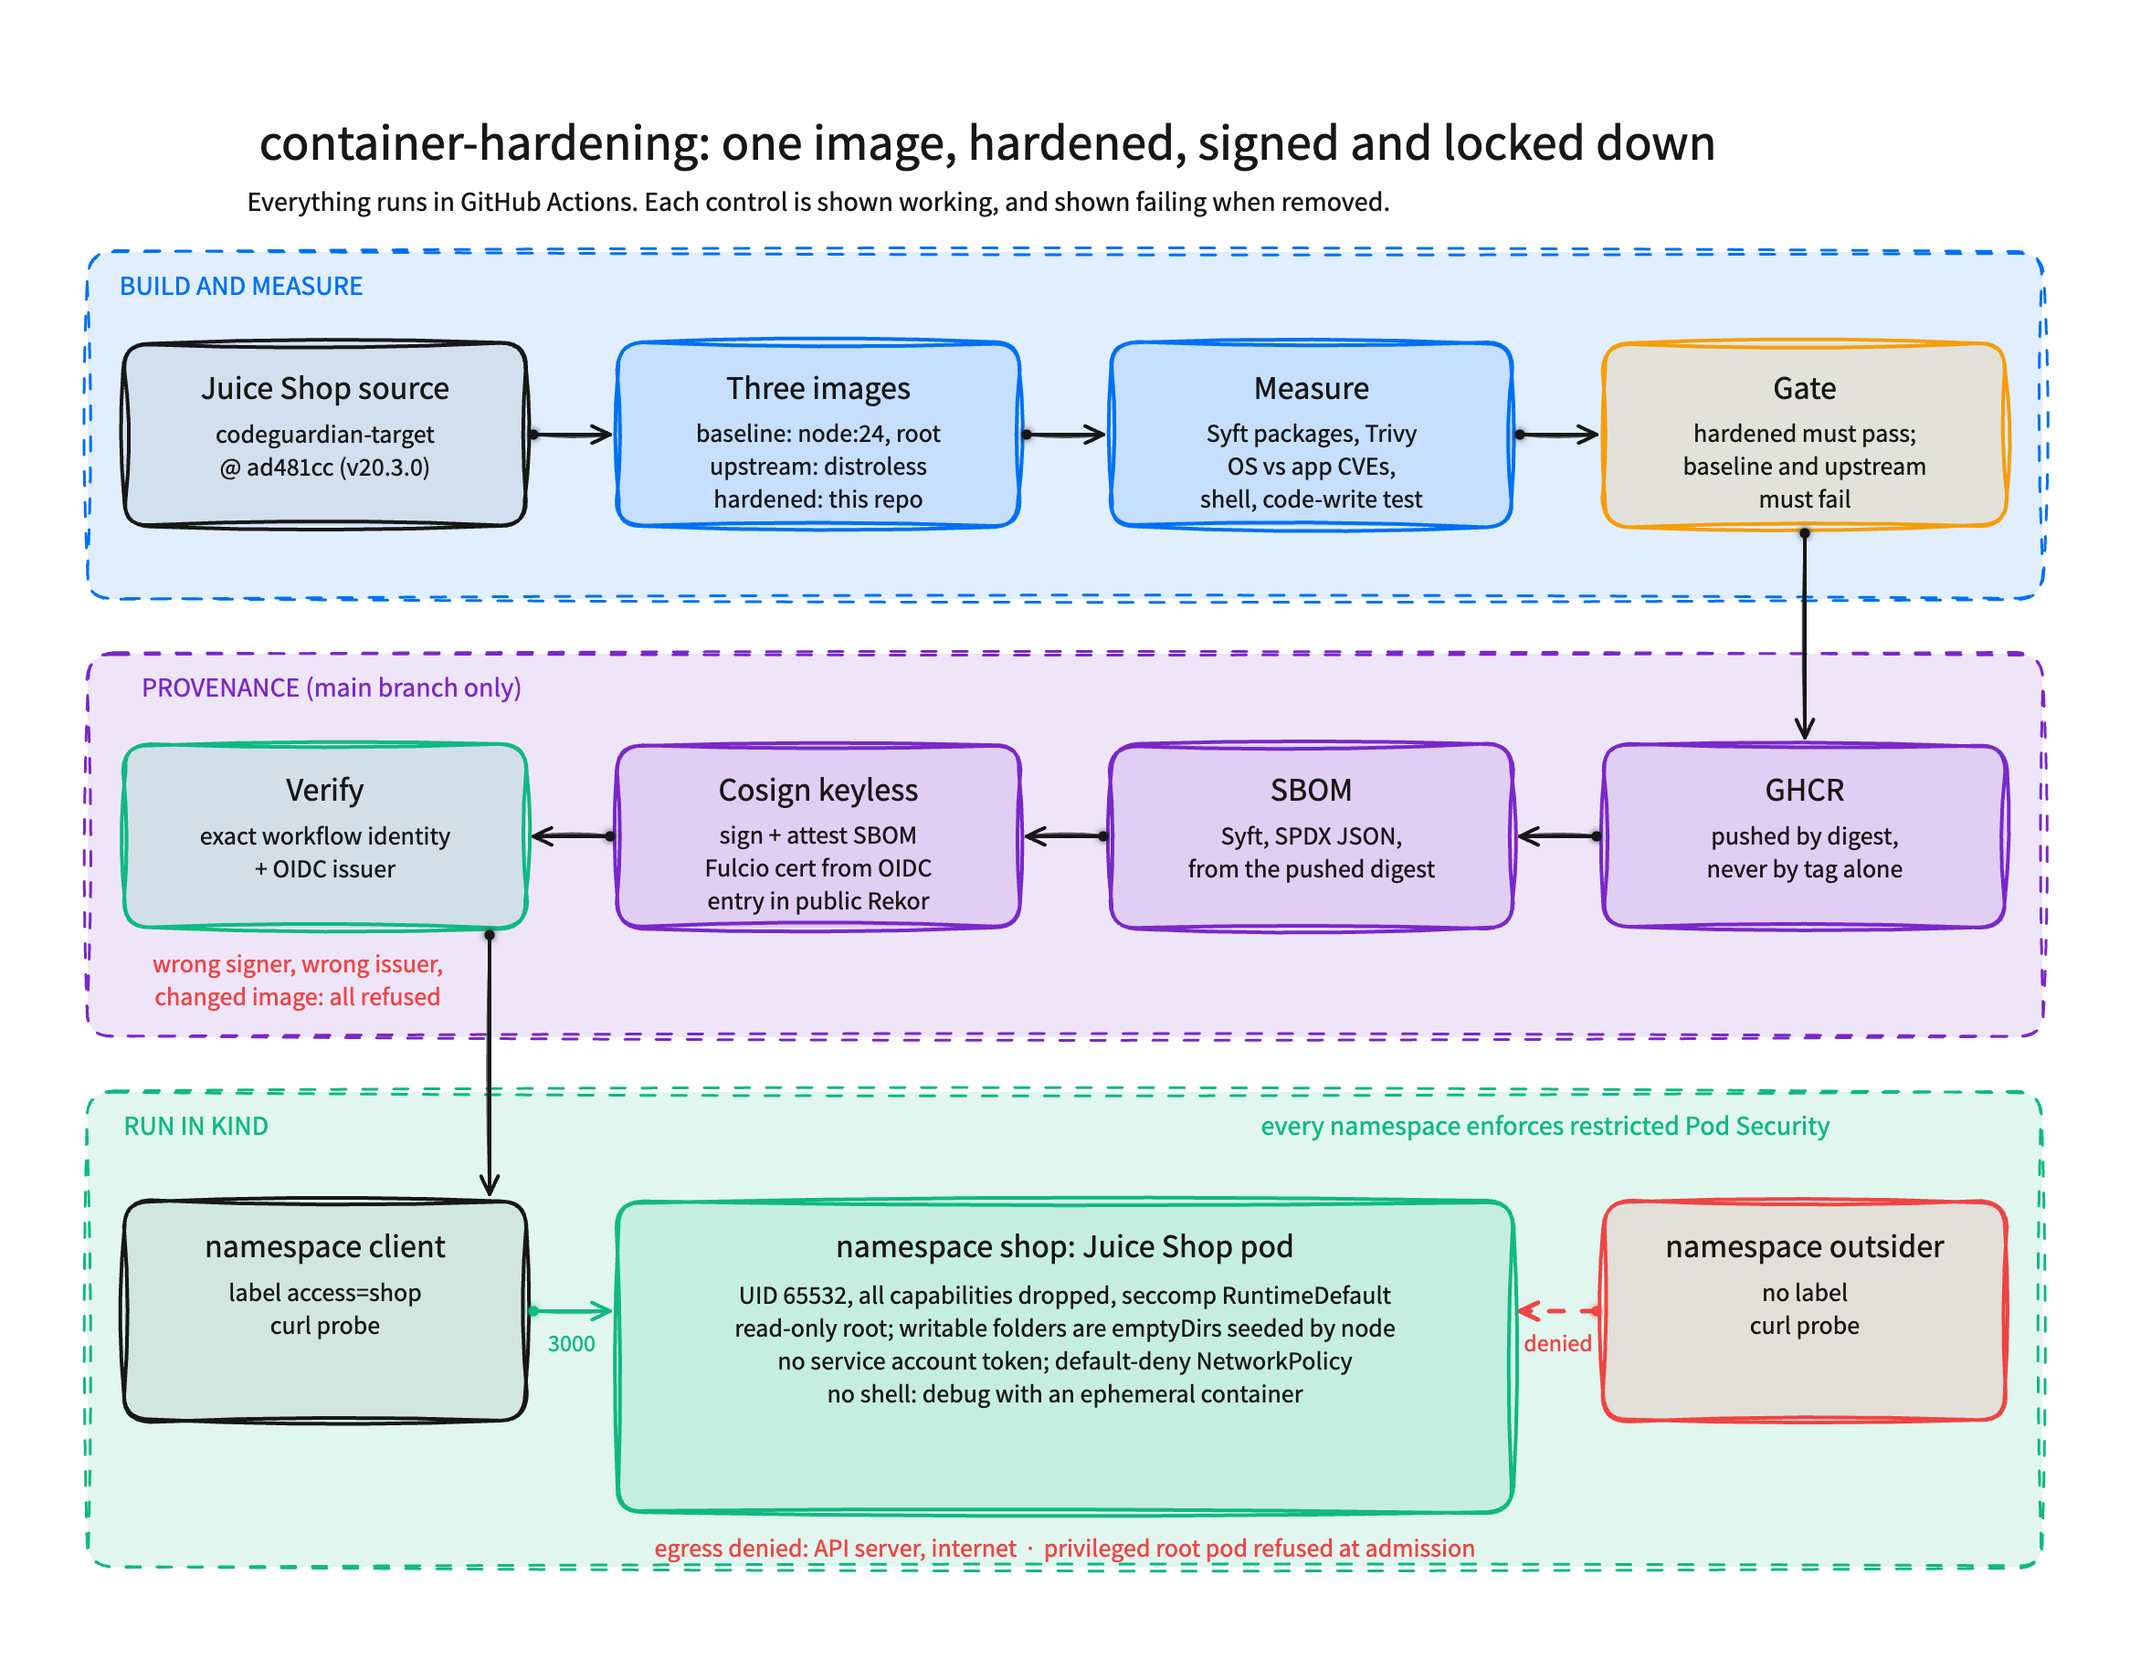
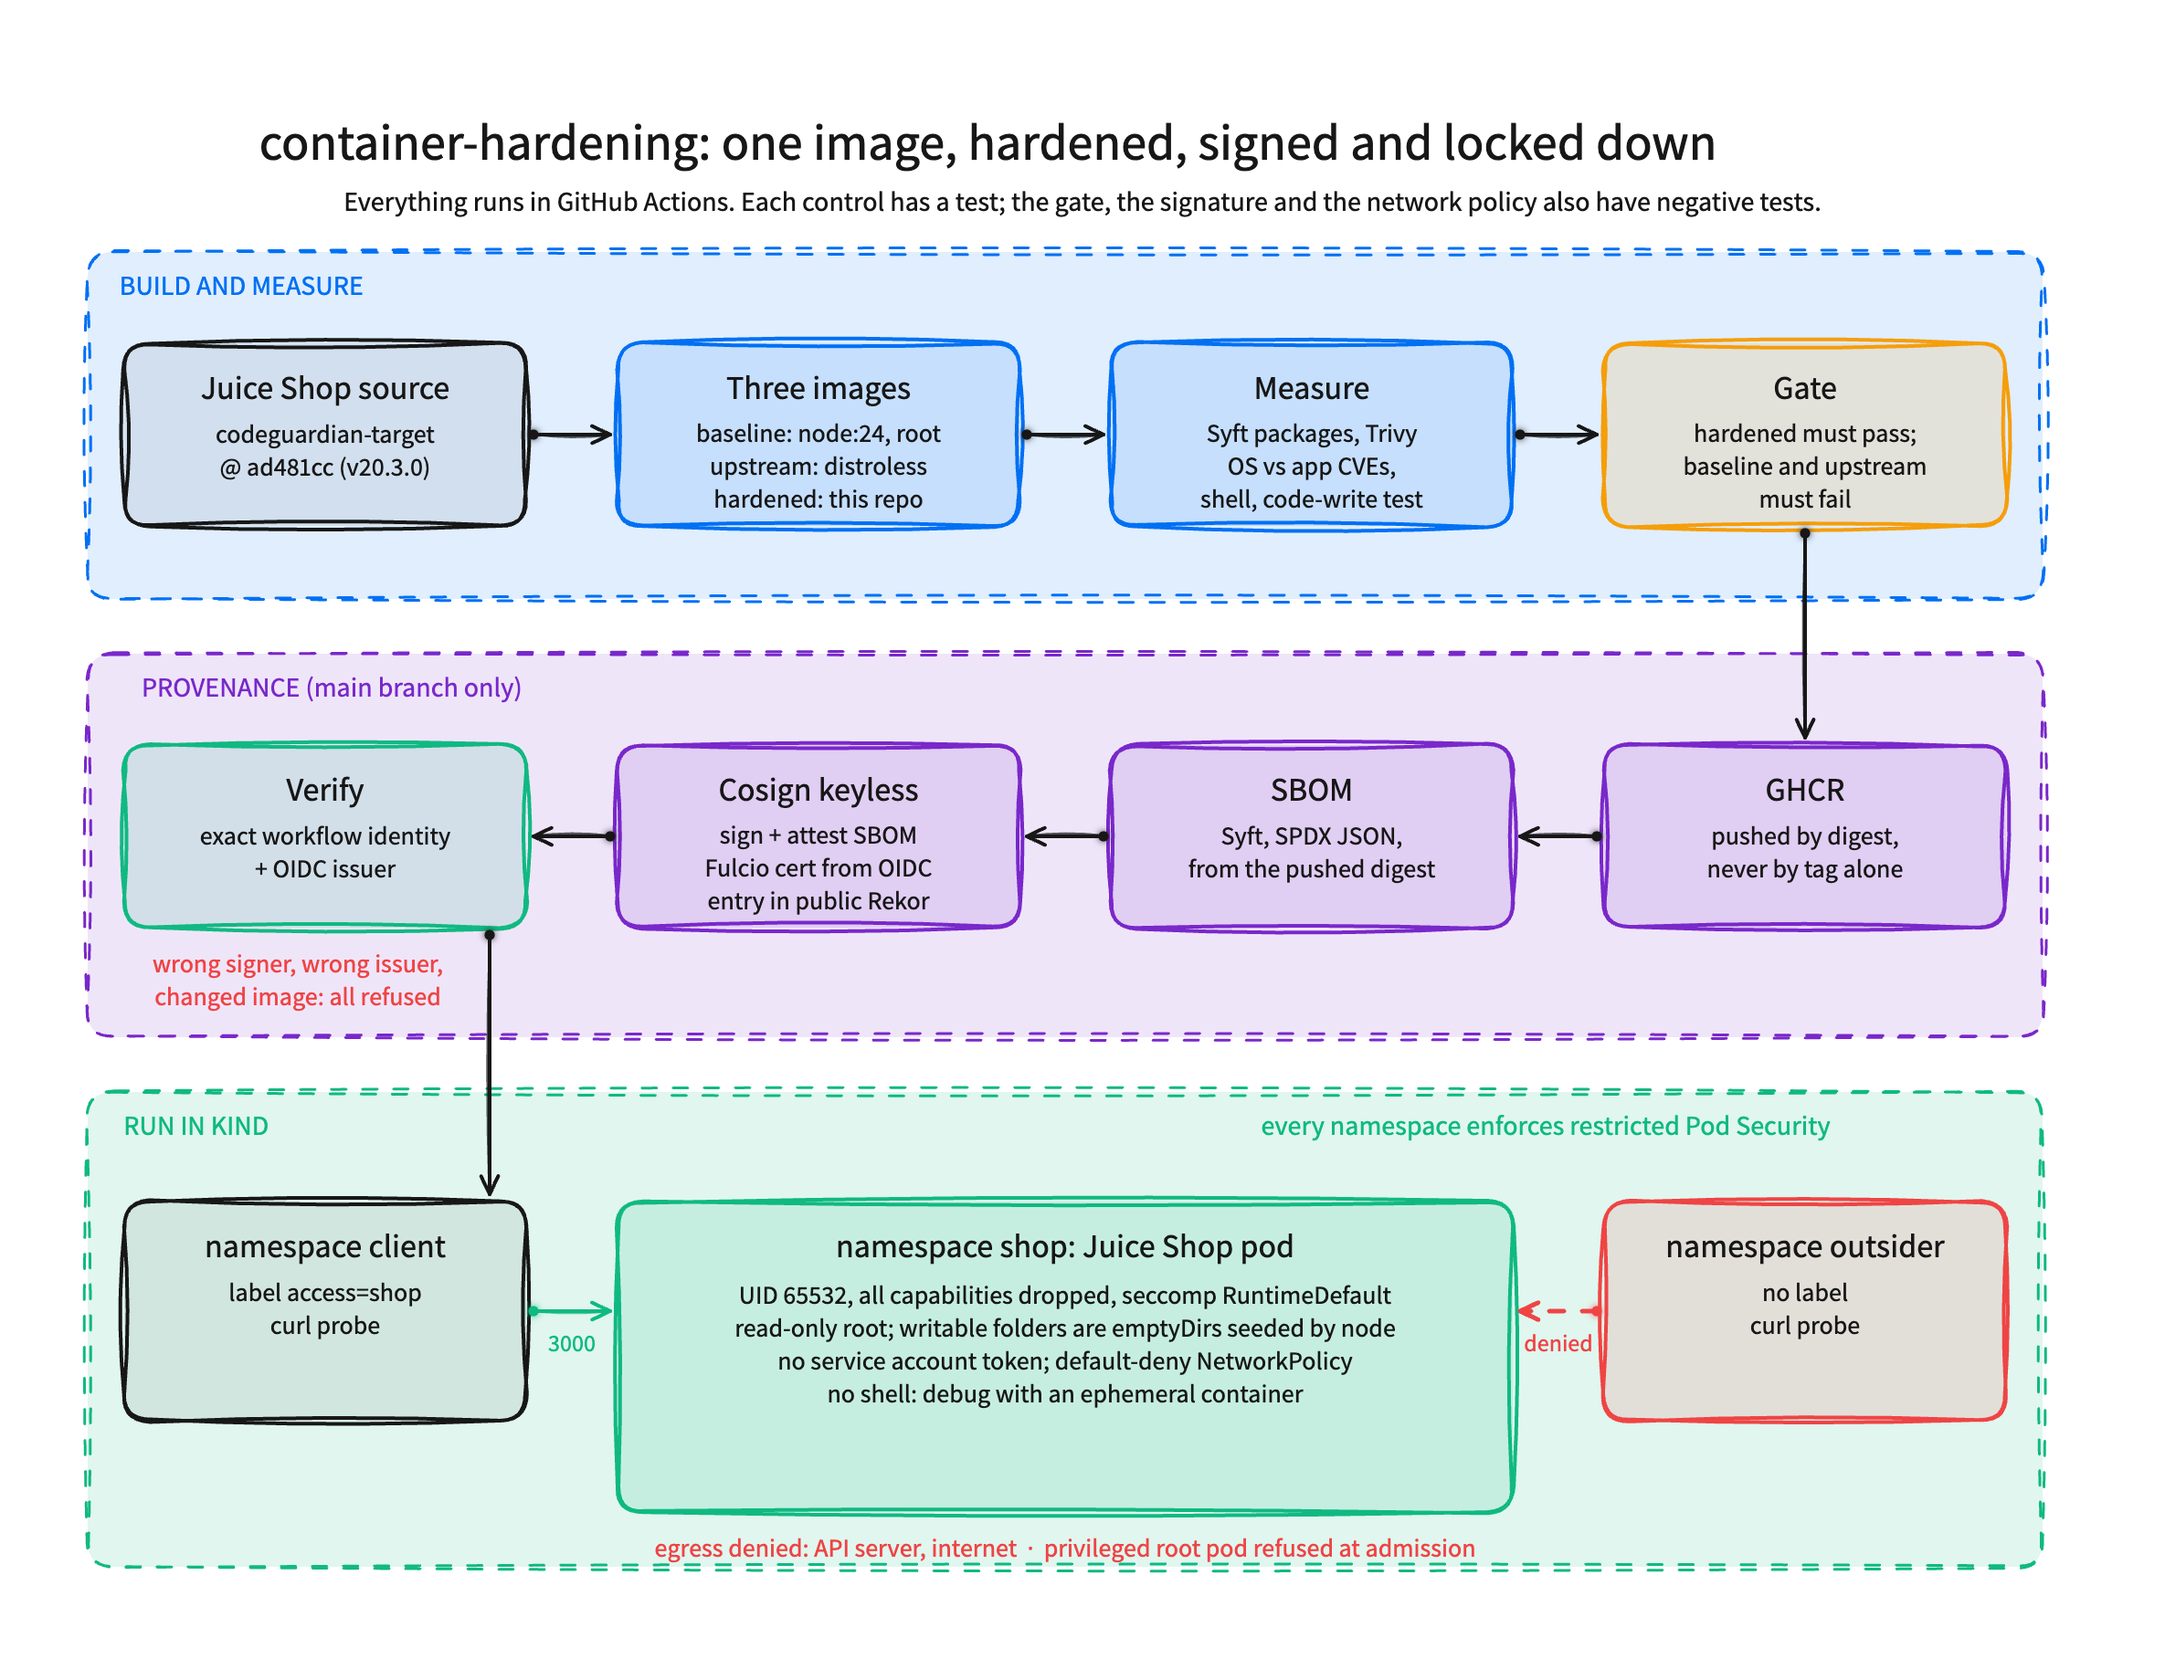
Test the read-only root directly, run make verify and make down, read the Sigstore bundles
The cluster's code-write test failed with EACCES, which file ownership alone
explains. A write to /home/nonroot, which UID 65532 owns, must now fail with
EROFS. The cluster job verifies the signature before it deploys and tears
the cluster down at the end, so every documented make target runs. A new
step downloads the stored Sigstore bundles and prints each transparency-log
entry and certificate, so those claims rest on the bundle, not on the docs.

diff --git a/diagram/make_diagram.py b/diagram/make_diagram.py
@@ -58,7 +58,7 @@ W, H, GAP = 220, 100, 50
 COL = [60, 60 + W + GAP, 60 + 2 * (W + GAP), 60 + 3 * (W + GAP)]
 
 text(40, 24, "container-hardening: one image, hardened, signed and locked down", 28)
-text(40, 64, "Everything runs in GitHub Actions. Each control is shown working, and shown failing when removed.",
+text(40, 64, "Everything runs in GitHub Actions. Each control has a test; the gate, the signature and the network policy also have negative tests.",
      15, "#404040")
 
 # Row 1: build and measure
